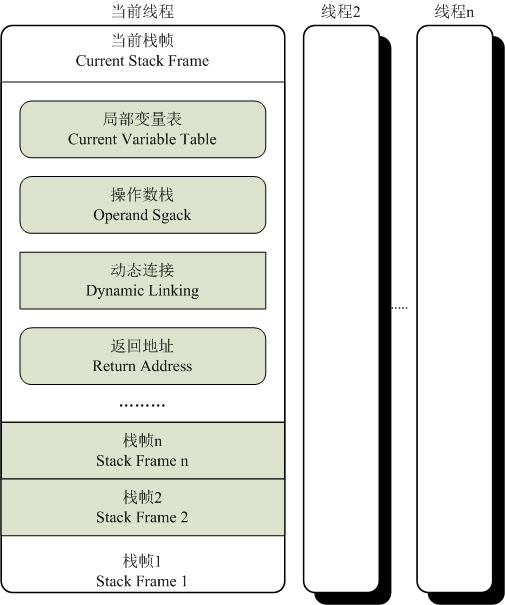
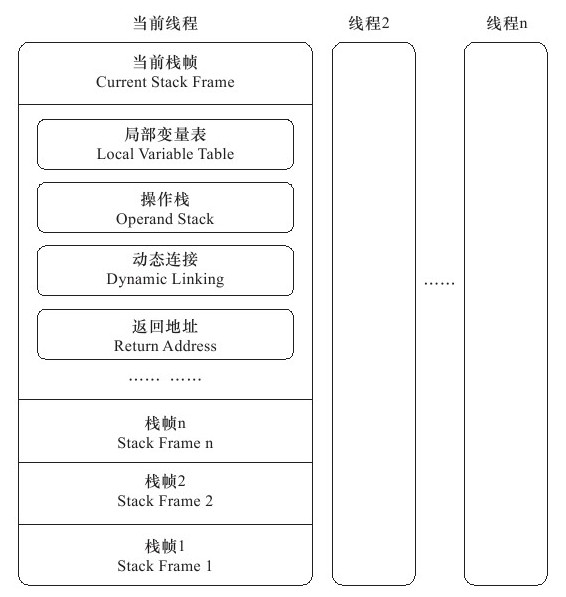
finish jvm内存结构

diff --git a/JVM内存结构.md b/JVM内存结构.md
@@ -8,6 +8,7 @@
     - [2.2. 方法区（Method Area）](#22-%e6%96%b9%e6%b3%95%e5%8c%bamethod-area)
     - [2.3. 程序计数器（Program Counter Register）](#23-%e7%a8%8b%e5%ba%8f%e8%ae%a1%e6%95%b0%e5%99%a8program-counter-register)
     - [2.4. 虚拟机栈](#24-%e8%99%9a%e6%8b%9f%e6%9c%ba%e6%a0%88)
+      - [2.4.1. 栈帧](#241-%e6%a0%88%e5%b8%a7)
     - [2.5. 本地方法栈（Native Method Stacks）](#25-%e6%9c%ac%e5%9c%b0%e6%96%b9%e6%b3%95%e6%a0%88native-method-stacks)
   - [3. JVM常见参数以及对应空间位置](#3-jvm%e5%b8%b8%e8%a7%81%e5%8f%82%e6%95%b0%e4%bb%a5%e5%8f%8a%e5%af%b9%e5%ba%94%e7%a9%ba%e9%97%b4%e4%bd%8d%e7%bd%ae)
   - [4. 内存管理](#4-%e5%86%85%e5%ad%98%e7%ae%a1%e7%90%86)
@@ -20,7 +21,7 @@
 > 3. OutOfMemoryError的异常到底涉及到运行时数据的哪块区域？该怎么解决呢？
 
 ### 2. JVM 内存结构
-![](JVM_detail.png.png)
+![](https://yds-01.coding.net/p/Summary-of-notes/d/Summary-of-notes/git/raw/master/images/JVM_detail.png)
 **方法区和堆是所有线程共享的内存区域；而java栈、本地方法栈和程序员计数器是运行是线程私有的内存区域。**
 
 #### 2.1. Java堆（Heap）
@@ -41,17 +42,23 @@
 **此内存区域是唯一一个在Java虚拟机规范中没有规定任何OutOfMemoryError情况的区域。**
 #### 2.4. 虚拟机栈
 1. Java虚拟机栈（Java Virtual Machine Stacks）也是线程私有的，它的生命周期与线程相同。虚拟机栈描述的是Java方法执行的内存模型：每个方法被执行的时候都会同时创建一个栈帧（Stack Frame）用于存储局部变量表、操作栈、动态链接、方法出口等信息。每一个方法被调用直至执行完成的过程，就对应着一个栈帧在虚拟机栈中从入栈到出栈的过程。 
-![](stackFrame.jpg) 
-2. 局部变量表存放了编译期可知的各种基本数据类型（boolean、byte、char、short、int、float、long、double）、对象引用（reference类型，它不等同于对象本身，根据不同的虚拟机实现，它可能是一个指向对象起始地址的引用指针，也可能指向一个代表对象的句柄或者其他与此对象相关的位置）和returnAddress类型（指向了一条字节码指令的地址）。
+   
+![](https://yds-01.coding.net/p/Summary-of-notes/d/Summary-of-notes/git/raw/master/images/stackFrame.jpg) 
+1. 局部变量表存放了编译期可知的各种基本数据类型（boolean、byte、char、short、int、float、long、double）、对象引用（reference类型，它不等同于对象本身，根据不同的虚拟机实现，它可能是一个指向对象起始地址的引用指针，也可能指向一个代表对象的句柄或者其他与此对象相关的位置）和returnAddress类型（指向了一条字节码指令的地址）。
 
-3. 在Java虚拟机规范中，对这个区域规定了两种异常状况：如果线程请求的栈深度大于虚拟机所允许的深度，将抛出StackOverflowError异常
-4. 如果虚拟机栈可以动态扩展，当扩展时无法申请到足够的内存时会抛出OutOfMemoryError异常。
+2. 在Java虚拟机规范中，对这个区域规定了两种异常状况：如果线程请求的栈深度大于虚拟机所允许的深度，将抛出StackOverflowError异常
+3. 如果虚拟机栈可以动态扩展，当扩展时无法申请到足够的内存时会抛出OutOfMemoryError异常。
+##### 2.4.1. 栈帧
+1. 局部变量：用于存放方法参数和方法内部定义的局部变量
+2. 操作数栈：用于计算，做出栈，入栈操作
+3. 动态链接：栈帧持有一个指向方法区常量池中所属方法的引用。这个引用是为了支持动态连接。动态连接是指符号引用在运行时转化为直接引用。
+4. 返回地址：在方法退出之后，都需要返回到方法被调用的位置，程序才能继续执行，方法返回时可能需要在栈帧中保存一些信息
 #### 2.5. 本地方法栈（Native Method Stacks）
 1. 本地方法栈（Native Method Stacks）与虚拟机栈所发挥的作用是非常相似的，其区别不过是虚拟机栈为虚拟机执行Java方法（也就是字节码）服务，而本地方法栈则是为虚拟机使用到的Native方法服务。
 2. native 方法与 系统底层进行交付，比如本地的 DDL文件。
 3. 与虚拟机栈一样，本地方法栈区域也会抛出StackOverflowError和OutOfMemoryError异常。
 ### 3. JVM常见参数以及对应空间位置
-![](JVM-param.png)
+![](https://yds-01.coding.net/p/Summary-of-notes/d/Summary-of-notes/git/raw/master/images/JVM-param.png)
 **控制参数**
 - -Xms设置堆的最小空间大小。
 - -Xmx设置堆的最大空间大小。
